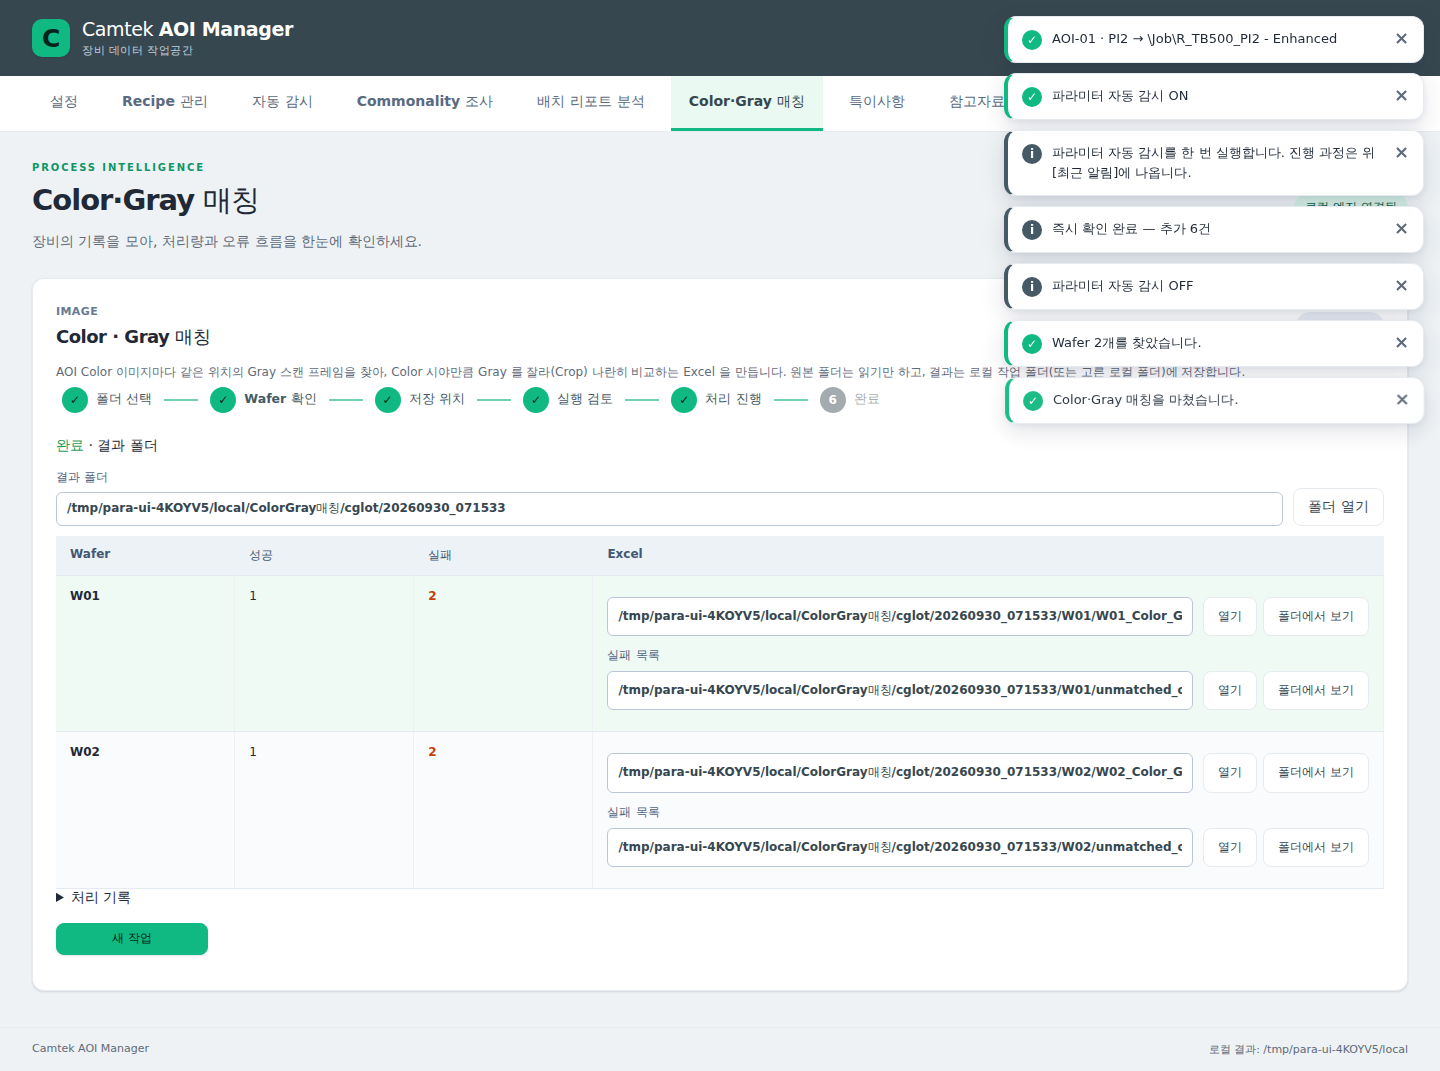
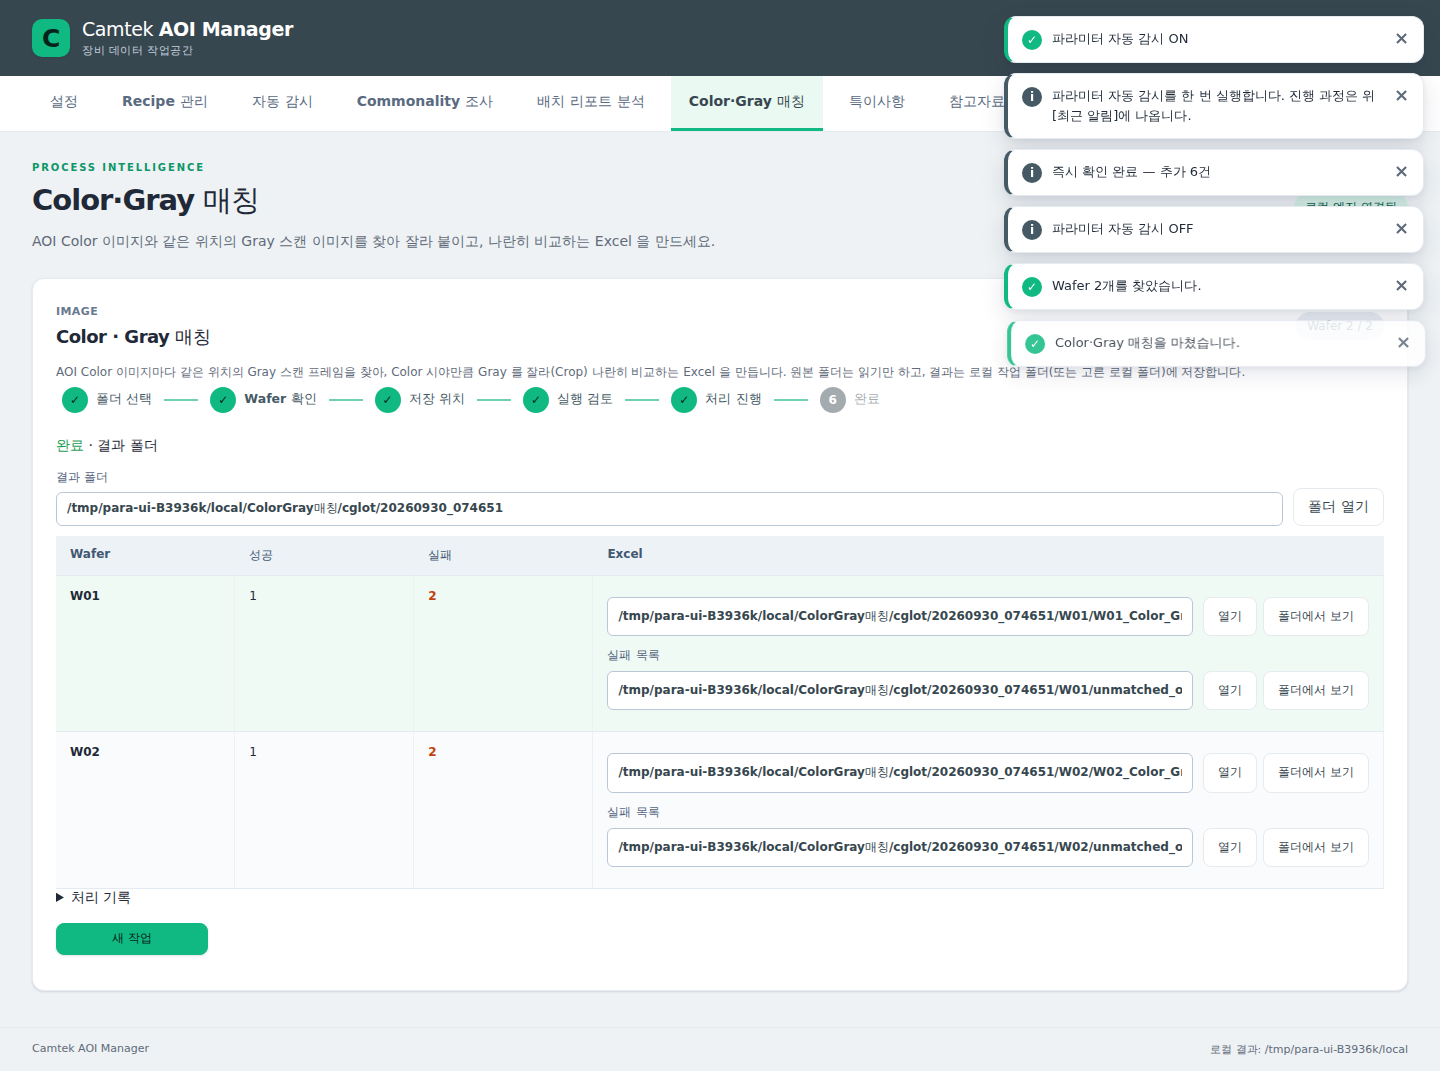
Color·Gray 매칭: 저장 위치 선택 UI 개선·탭 설명 문구·원본 한도 5MB(분할 읽기)
Claude-Session: https://claude.ai/code/session_01TRD8H2veNKUo4MQH15JT1M

diff --git a/frontend/src/ColorGray.tsx b/frontend/src/ColorGray.tsx
@@ -16,15 +16,20 @@ type Finished={workbook:string;matched:number;failed:number;failures_csv:string;
 const STEPS=['폴더 선택','Wafer 확인','저장 위치','실행 검토','처리 진행','완료'];
 const TW=360,TH=270;
 
-const b64ToBlob=(b64:string)=>{const s=atob(b64);const a=new Uint8Array(s.length);for(let i=0;i<s.length;i++)a[i]=s.charCodeAt(i);return new Blob([a],{type:'image/jpeg'});};
+const b64Bytes=(b64:string)=>{const s=atob(b64);const a=new Uint8Array(new ArrayBuffer(s.length));for(let i=0;i<s.length;i++)a[i]=s.charCodeAt(i);return a;};
 async function toB64(canvas:OffscreenCanvas,quality:number){
   const buf=new Uint8Array(await (await canvas.convertToBlob({type:'image/jpeg',quality})).arrayBuffer());
   let s='';for(let i=0;i<buf.length;i+=0x8000)s+=String.fromCharCode(...buf.subarray(i,i+0x8000));
   return btoa(s);
 }
+/** Source JPEG (≤ 5 MB) read in pieces — one IPC message is limited to 4 MB. */
 async function source(wafer:number,record:number,kind:'color'|'gray'){
-  const r=(await desktop.request('cgm_read',{wafer,record,kind}).promise).colorgray as {data:string};
-  return createImageBitmap(b64ToBlob(r.data),{imageOrientation:'from-image'});
+  const parts:Uint8Array<ArrayBuffer>[]=[];let offset:number|null=0;
+  while(offset!==null){
+    const r=(await desktop.request('cgm_read',{wafer,record,kind,offset}).promise).colorgray as {data:string;next:number|null};
+    parts.push(b64Bytes(r.data));offset=r.next;
+  }
+  return createImageBitmap(new Blob(parts,{type:'image/jpeg'}),{imageOrientation:'from-image'});
 }
 /** Shrink-to-fit on a white 360×270 canvas (never enlarged), optional red cross at the fault. */
 function thumb(img:ImageBitmap|OffscreenCanvas,marker?:{x:number;y:number;w:number;h:number}){
@@ -145,12 +150,18 @@ export function ColorGray(){
     </>}
     {step===2&&<>
       <p className="hint">결과(Excel · Crop 이미지 · 썸네일)는 이미지 수만큼 파일이 생기므로 <b>로컬 디스크</b>에만 저장합니다(OneDrive·네트워크·원본 폴더 안은 불가).</p>
-      <div className="radio-list" role="radiogroup" aria-label="결과 저장 위치">
-        <label><input type="radio" name="cgm-out" checked={mode==='default'} onChange={()=>setMode('default')}/> 로컬 작업 폴더 (기본) <code>{defaultOut}\{'{'}시각{'}'}</code></label>
-        <label><input type="radio" name="cgm-out" checked={mode==='custom'} onChange={()=>setMode('custom')}/> 다른 로컬 폴더</label>
+      <div className="out-choice" role="radiogroup" aria-label="결과 저장 위치">
+        <div className={'out-row'+(mode==='default'?' on':'')}>
+          <button type="button" role="radio" aria-checked={mode==='default'} className={'out-pick'+(mode==='default'?' on':'')} onClick={()=>setMode('default')}>로컬 작업 폴더 (기본)</button>
+          <code className="out-path" title={defaultOut}>{defaultOut}\{'{'}실행 시각{'}'}</code>
+        </div>
+        <div className={'out-row'+(mode==='custom'?' on':'')}>
+          <button type="button" role="radio" aria-checked={mode==='custom'} className={'out-pick'+(mode==='custom'?' on':'')} onClick={()=>setMode('custom')}>다른 로컬 폴더</button>
+          <input className="out-path" aria-label="다른 로컬 폴더 경로" placeholder="폴더 경로를 입력하거나 [찾아보기]" value={custom}
+            onFocus={()=>setMode('custom')} onChange={e=>{setCustom(e.target.value);setMode('custom');}}/>
+          <button type="button" onClick={()=>void browse(p=>{setCustom(p);setMode('custom');})}>📁 찾아보기…</button>
+        </div>
       </div>
-      {mode==='custom'&&<div className="form-filter"><label className="field" style={{flex:1}}>저장 위치<input aria-label="결과 저장 위치" value={custom} onChange={e=>setCustom(e.target.value)}/></label>
-        <button onClick={()=>void browse(setCustom)}>📁 찾아보기…</button></div>}
     </>}
     {step===3&&<>
       <table className="tbl watch-status" aria-label="실행 전 검토"><tbody>

diff --git a/frontend/src/main.tsx b/frontend/src/main.tsx
@@ -21,6 +21,9 @@ const metrics: [Metric,string,string][] = [
   ['M09','품질 이상 후보','과거 정상 표본과 비교'], ['M10','Lot 스캔 이슈율','이슈·재스캔 Lot 비중'],
   ['M11','미분류 상태','알 수 없는 원문도 보존']
 ];
+const SUBTITLE: Record<string,string> = {
+  'Color·Gray 매칭':'AOI Color 이미지와 같은 위치의 Gray 스캔 이미지를 찾아 잘라 붙이고, 나란히 비교하는 Excel 을 만드세요.'
+};
 const KEEP = ['Recipe 관리','Commonality 조사','자동 감시','Color·Gray 매칭'];
 const navigation = ['설정','Recipe 관리','자동 감시','Commonality 조사','배치 리포트 분석','Color·Gray 매칭','특이사항','참고자료','장비 IP'];
 const text = (value: unknown) => value == null ? '—' : typeof value === 'number' ? value.toLocaleString('ko-KR',{maximumFractionDigits:2}) : String(value);
@@ -247,7 +250,7 @@ function App(){
     <header className="topbar"><a className="brand" href="#main"><span className="brand-icon" aria-hidden="true">C</span><span>Camtek <b>AOI Manager</b><small>장비 데이터 작업공간</small></span></a><span className="environment"><span aria-hidden="true">●</span> 오프라인 · 원본 읽기 전용</span></header>
     <UpdateBanner busy={busy}/>
     <nav className="navigation" aria-label="주요 기능">{navigation.map(name=><button key={name} className={tab===name?'active':''} aria-current={tab===name?'page':undefined} onClick={()=>setTab(name)}>{name}</button>)}</nav>
-    <main id="main"><div className="page-heading"><div><p className="eyebrow">PROCESS INTELLIGENCE</p><h1>{tab}</h1><p>장비의 기록을 모아, 처리량과 오류 흐름을 한눈에 확인하세요.</p></div><span className="connection-box"><span className={'connection '+(config&&!engineDown?'connected':'')}>{engineDown?'엔진 연결 끊김':connection}</span>
+    <main id="main"><div className="page-heading"><div><p className="eyebrow">PROCESS INTELLIGENCE</p><h1>{tab}</h1><p>{SUBTITLE[tab]||'장비의 기록을 모아, 처리량과 오류 흐름을 한눈에 확인하세요.'}</p></div><span className="connection-box"><span className={'connection '+(config&&!engineDown?'connected':'')}>{engineDown?'엔진 연결 끊김':connection}</span>
         {engineDown&&<button onClick={reconnect}>다시 연결</button>}</span></div>
       <div key={screenKey} style={{display:'contents'}}>
       {visited.map(name=><div key={name} hidden={tab!==name} className="kept-screen">{

diff --git a/frontend/src/styles.css b/frontend/src/styles.css
@@ -224,3 +224,12 @@ kbd{display:inline-block;padding:1px 6px;border:1px solid #b8c4d2;border-bottom-
 .log-box{max-height:240px;overflow:auto;background:#0f1e3d;color:#dbe7f5;border-radius:10px;padding:10px 14px;font-size:12.5px;white-space:pre-wrap;margin:10px 0}
 .radio-list{display:flex;flex-direction:column;gap:8px;margin:8px 0 12px}
 .radio-list label{display:flex;gap:8px;align-items:center;flex-wrap:wrap}
+.out-choice{display:flex;flex-direction:column;gap:10px;margin:10px 0 14px}
+.out-row{display:grid;grid-template-columns:200px minmax(0,1fr) auto;gap:10px;align-items:center;padding:8px;border:1px solid var(--line);border-radius:12px;background:#fff}
+.out-row.on{border-color:#9fd8b8;background:#f4fbf7}
+.out-row:first-child{grid-template-columns:200px minmax(0,1fr)}
+.out-pick{min-height:40px;border-radius:8px;border:2px solid #cfd8e3;background:#fff;color:var(--navy);font-weight:700}
+.out-pick.on,.out-pick.on:hover:not(:disabled){background:var(--lime);border-color:var(--lime);color:var(--onacc)}
+.out-path{min-width:0;overflow:hidden;text-overflow:ellipsis;white-space:nowrap;font-size:13px}
+input.out-path{padding:9px 12px;border:1px solid var(--line);border-radius:8px}
+@media (max-width:720px){.out-row,.out-row:first-child{grid-template-columns:1fr}}

diff --git a/param_manager/desktop_colorgray.py b/param_manager/desktop_colorgray.py
@@ -23,7 +23,8 @@ from pathlib import Path
 
 from . import colorgray, desktop_progress
 
-MAX_SOURCE = 2_900_000          # raw bytes per source image (base64 must fit the 4 MB frame)
+MAX_SOURCE = 5 * 1024 * 1024    # raw bytes per source image; larger ones are listed as failures
+CHUNK = 2_000_000               # read in pieces: base64 of one piece must fit the 4 MB IPC frame
 MAX_OUTPUT = 2_900_000
 KINDS_IN = ("color", "gray")
 KINDS_OUT = ("crop", "color_thumb", "gray_thumb", "crop_thumb")
@@ -135,14 +136,26 @@ class DesktopColorGray:
                     for w in job["wafers"]]))
 
     def read(self, params):
-        if set(params) != {"wafer", "record", "kind"} or params.get("kind") not in KINDS_IN:
+        """One source image, in CHUNK-sized pieces (`offset` → next piece) so a file up
+        to MAX_SOURCE never exceeds the IPC frame limit."""
+        if set(params) - {"offset"} != {"wafer", "record", "kind"} or params.get("kind") not in KINDS_IN:
             raise ValueError("읽을 이미지를 확인하세요")
+        offset = params.get("offset", 0)
+        if type(offset) is not int or offset < 0:
+            raise ValueError("읽을 위치를 확인하세요")
         _, rec = self._record(params)
         path = Path(rec["color_path" if params["kind"] == "color" else "gray_path"])
         size = path.stat().st_size
         if size > MAX_SOURCE:
-            raise ValueError(f"이미지가 너무 큽니다({size // 1024} KB): {path.name}")
-        return dict(name=path.name, data=base64.b64encode(path.read_bytes()).decode("ascii"))
+            raise ValueError(f"이미지가 너무 큽니다({size / 1048576:.1f} MB > 5 MB): {path.name}")
+        if offset > size:
+            raise ValueError("읽을 위치를 확인하세요")
+        with path.open("rb") as fh:
+            fh.seek(offset)
+            piece = fh.read(CHUNK)
+        end = offset + len(piece)
+        return dict(name=path.name, size=size, data=base64.b64encode(piece).decode("ascii"),
+                    next=end if end < size else None)
 
     def put(self, params):
         if set(params) - {"wafer", "record", "kind", "data", "box"} or params.get("kind") not in KINDS_OUT:

diff --git a/param_manager/desktop_ipc.py b/param_manager/desktop_ipc.py
@@ -269,7 +269,7 @@ class Session:
         allowed.update(watch_status=set(), pwatch_state=set(),
                        pwatch_save={'enabled','interval_hours','window_start','window_end','notify_on_change_only'},
                        pwatch_set_path={'machine','recipe','rel'}, pwatch_copy_paths={'source','targets'},
-                       pwatch_jobs={'machine','sub'}, pwatch_connections={'machines'}, diag_client={'events'}, diag_bundle=set(), cgm_scan={'root'}, cgm_start={'wafers','output'}, cgm_state=set(), cgm_read={'wafer','record','kind'}, cgm_put={'wafer','record','kind','data','box'}, cgm_fail={'wafer','record','reason'}, cgm_finish={'wafer'}, cgm_reset=set(), pwatch_run=set(), cmwatch_state=set(),
+                       pwatch_jobs={'machine','sub'}, pwatch_connections={'machines'}, diag_client={'events'}, diag_bundle=set(), cgm_scan={'root'}, cgm_start={'wafers','output'}, cgm_state=set(), cgm_read={'wafer','record','kind','offset'}, cgm_put={'wafer','record','kind','data','box'}, cgm_fail={'wafer','record','reason'}, cgm_finish={'wafer'}, cgm_reset=set(), pwatch_run=set(), cmwatch_state=set(),
                        cmwatch_save={'enabled','interval_hours','window_start','window_end','settle_minutes','machines','plan'},
                        cmwatch_run=set(), cmwatch_candidates={'machine','device','lot'}, cmwatch_begin={'sm','title'}, cmwatch_recipes={'indexes'},
                        cmwatch_page={'snapshot','variant','query','used_only','offset','limit','zone'},

diff --git a/tests/test_colorgray.py b/tests/test_colorgray.py
@@ -75,7 +75,17 @@ class ColorGrayTests(unittest.TestCase):
         rec = job["wafers"][0]["records"][0]
         self.assertEqual((rec["color"], rec["gray"], rec["gw"]), ("C1.jpg", "F1.t.1.jpg", cg.GW))
         got = a.read({"wafer": 0, "record": 0, "kind": "gray"})
-        self.assertEqual(base64.b64decode(got["data"]), GRAY_JPEG)
+        self.assertEqual((base64.b64decode(got["data"]), got["next"]), (GRAY_JPEG, None))
+        import param_manager.desktop_colorgray as dcg
+        old_chunk, dcg.CHUNK = dcg.CHUNK, 500                  # pieces are reassembled in order
+        try:
+            first = a.read({"wafer": 0, "record": 0, "kind": "gray"})
+            rest = a.read({"wafer": 0, "record": 0, "kind": "gray", "offset": first["next"]})
+        finally:
+            dcg.CHUNK = old_chunk
+        self.assertEqual(base64.b64decode(first["data"]) + base64.b64decode(rest["data"]), GRAY_JPEG)
+        self.assertIsNone(rest["next"])
+        self.assertEqual(dcg.MAX_SOURCE, 5 * 1024 * 1024)
         with self.assertRaises(ValueError):
             a.read({"wafer": 0, "record": 5, "kind": "color"})
         with self.assertRaises(ValueError):

diff --git a/CLAUDE.md b/CLAUDE.md
@@ -31,7 +31,8 @@ Camtek AOI 장비의 PI/RDL 코어 파라미터를 호기별로 관리하는 한
   그대로 GW=3168,GH=1024,GP)·원본 읽기(`cgm_read` base64, 목록에 있는 파일만)·UI 산출 JPEG 저장(`cgm_put`, 이름은 엔진이
   만듦·JPEG 헤더 검사)·Excel(`cgm_finish`, openpyxl `Image` 서브클래스 `JpegImage` 로 Pillow 없이 삽입).
 - 출력 = 로컬만(`batchreport_store.local_root`: OneDrive/네트워크/원본 겹침 거부). 기본 `{로컬}/ColorGray매칭/{폴더}/{시각}`.
-  사용자 지정 폴더는 `DesktopColorGray.extra_roots` 로 `open_path` 허용. 테스트 `tests/test_colorgray.py`(+ JPEG 픽스처
+  사용자 지정 폴더는 `DesktopColorGray.extra_roots` 로 `open_path` 허용. 원본 한도 5MB(`MAX_SOURCE`, v10.1.0) —
+  base64 가 4MB IPC 프레임을 넘으므로 `cgm_read(offset)` 가 2MB(`CHUNK`)씩 나눠 주고 UI 가 이어 붙인다. 테스트 `tests/test_colorgray.py`(+ JPEG 픽스처
   `tests/colorgray_fixture.py`, UI 하네스 전체 흐름).
 
 ### 엔진 시작 5~10분 원인·수정 + v9.10.2 (2026-09-30)

diff --git a/docs/release_notes/v10.1.0.md b/docs/release_notes/v10.1.0.md
@@ -1,0 +1,9 @@
+# Camtek AOI Manager v10.1.0
+
+## Color · Gray 매칭 개선
+- **저장 위치 화면 정리**: '로컬 작업 폴더(기본)' / '다른 로컬 폴더' 를 초록색 선택 버튼으로 바꾸고,
+  버튼 바로 오른쪽에 저장 경로, 맨 오른쪽에 **[📁 찾아보기…]** 를 배치했습니다(고른 쪽 줄이 초록 테두리로 표시).
+- **화면 상단 설명 문구**를 기능에 맞게 바꿨습니다:
+  "AOI Color 이미지와 같은 위치의 Gray 스캔 이미지를 찾아 잘라 붙이고, 나란히 비교하는 Excel 을 만드세요."
+- **원본 이미지 용량 한도 2.9MB → 5MB**: 5MB 까지 처리하고, 넘는 이미지는 실패 목록에 사유와 함께 남깁니다
+  (큰 이미지는 나눠서 읽어 프로그램 내부 전송 한도에 걸리지 않습니다).
